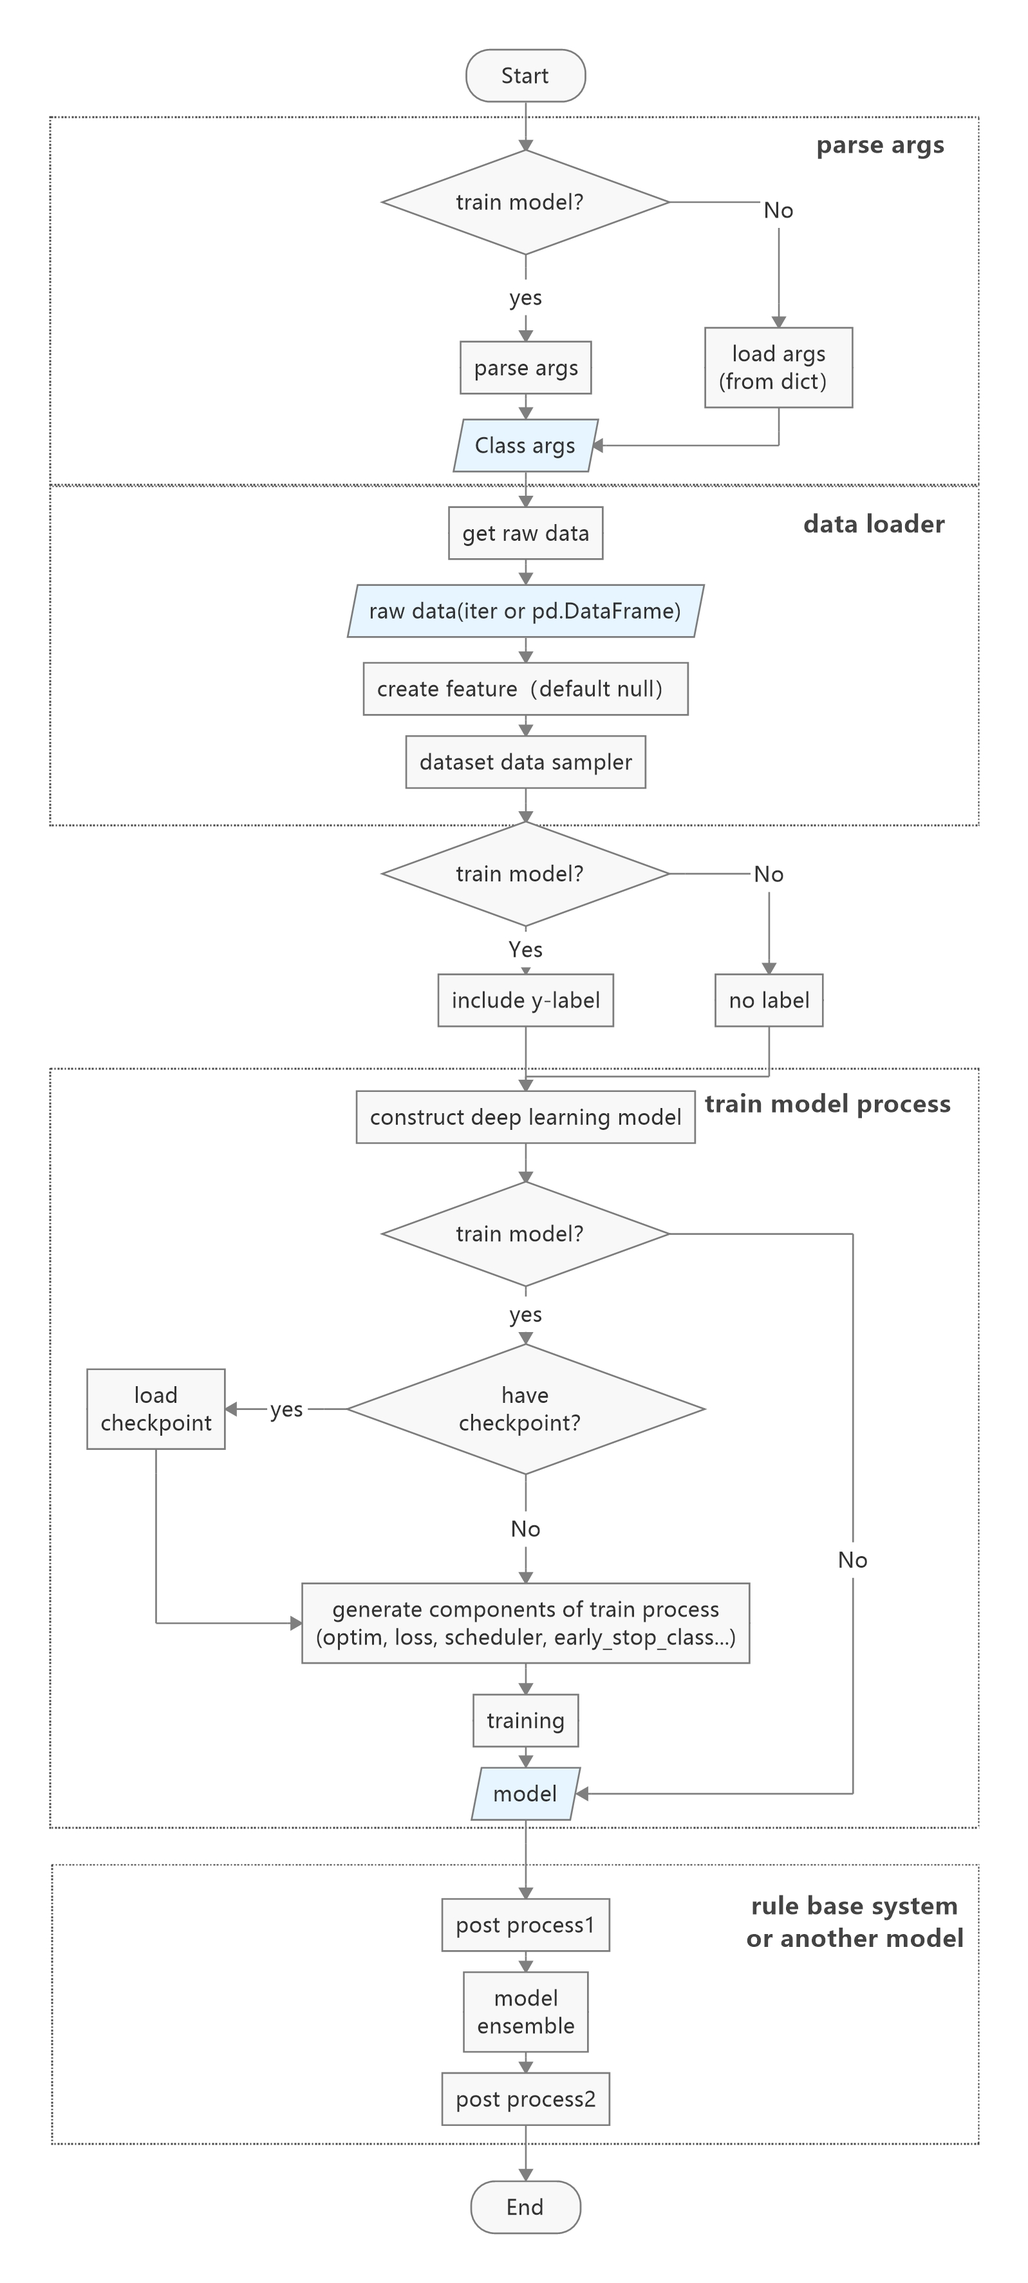
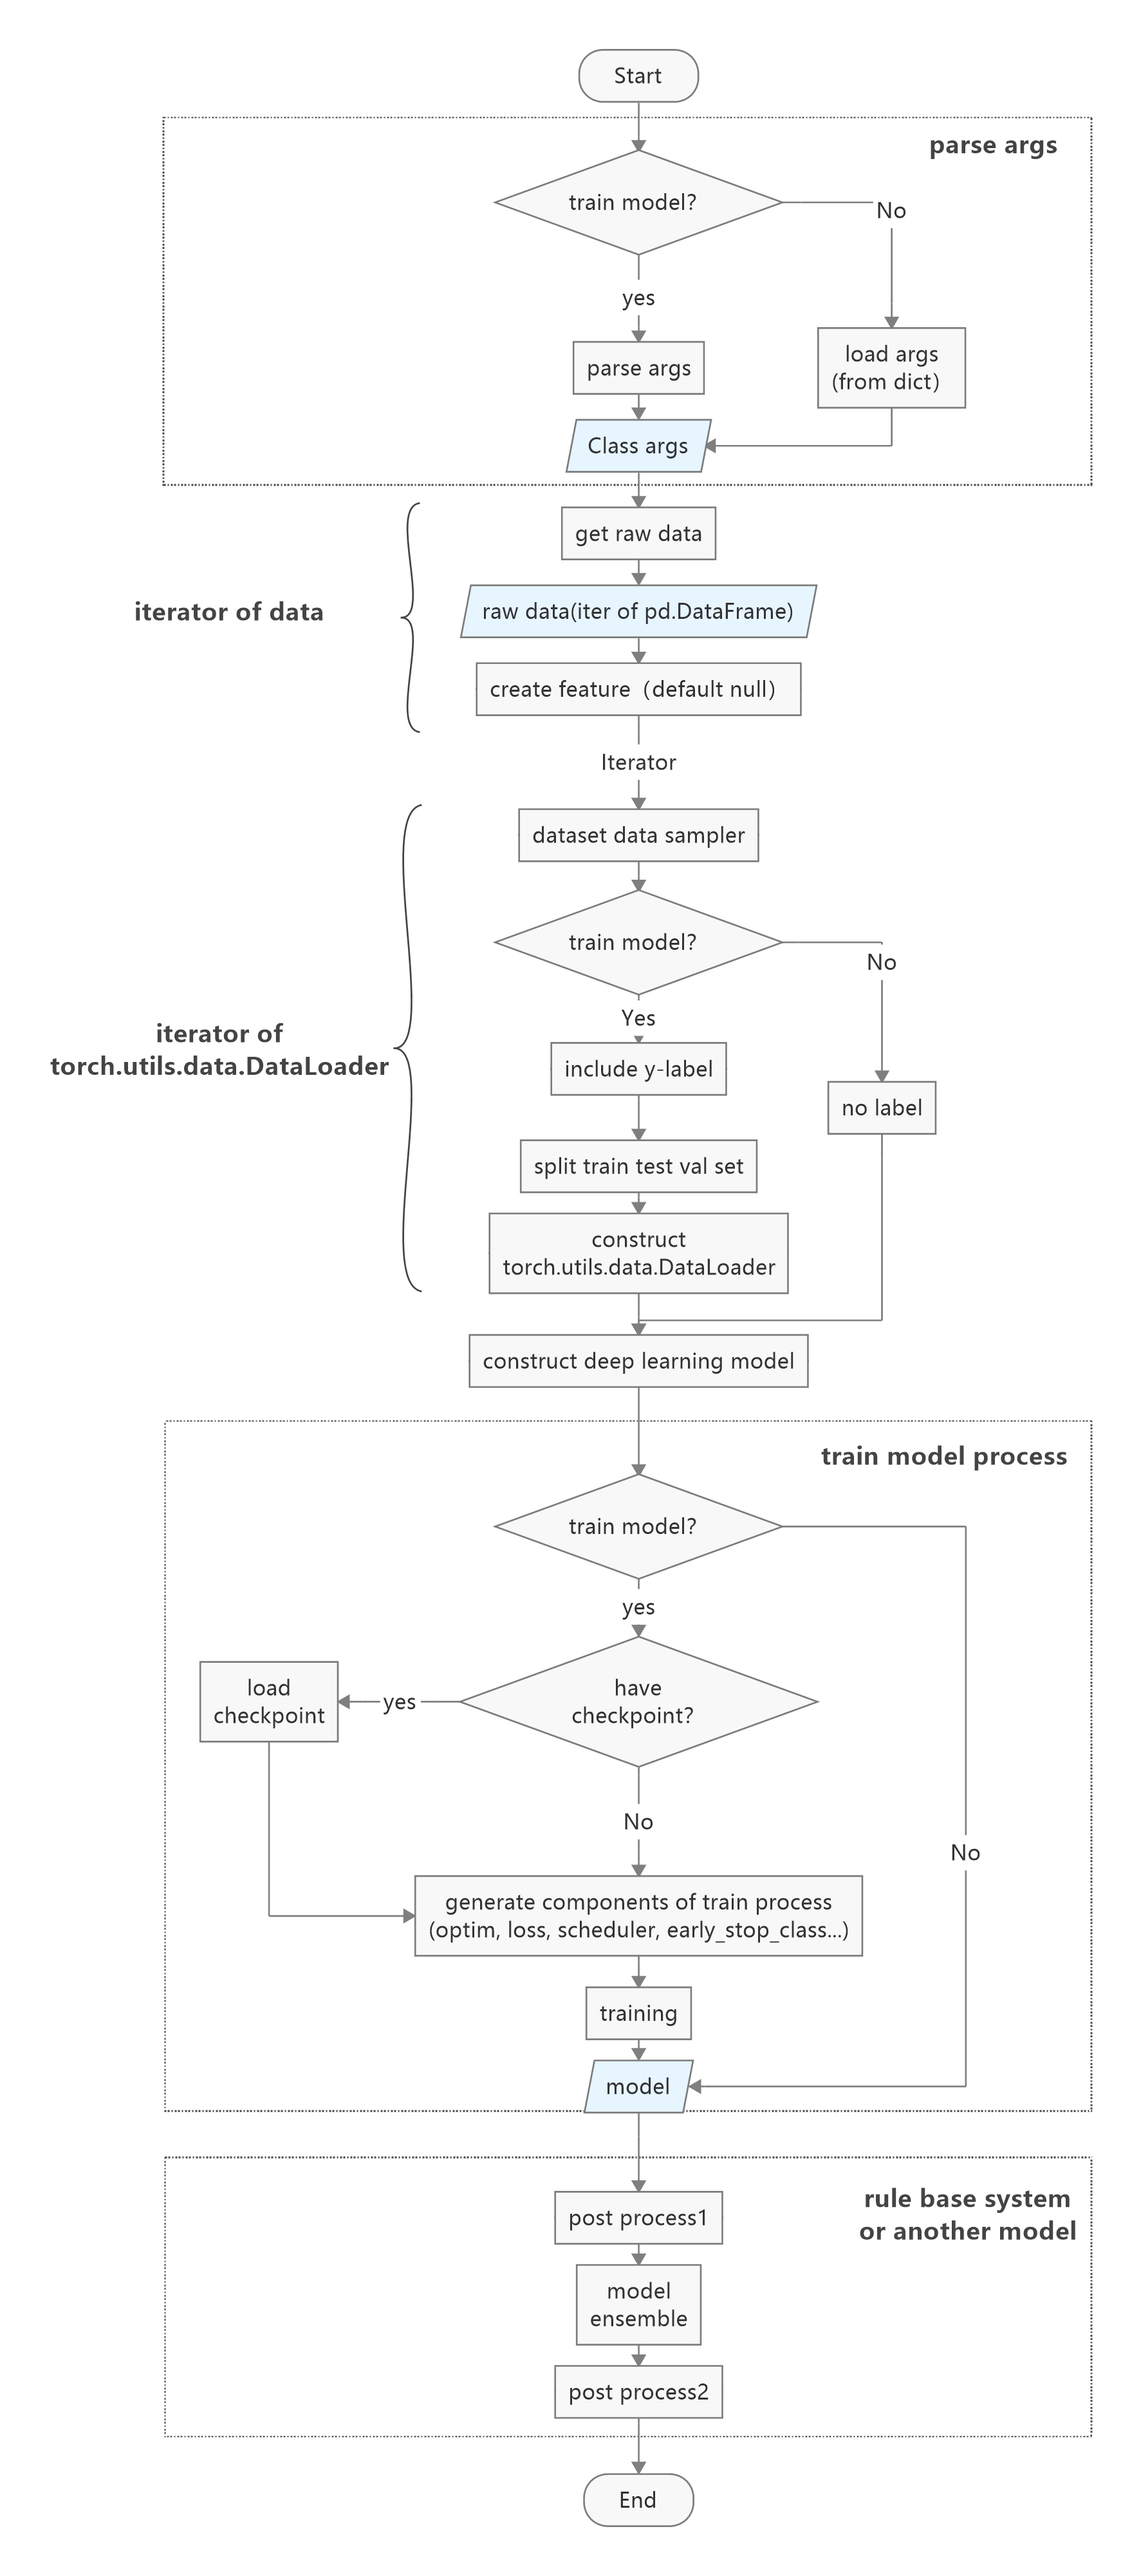
update template

diff --git a/pytorch_template/optim/lr_scheduler.py b/pytorch_template/optim/lr_scheduler.py
@@ -10,7 +10,6 @@ from torch.optim import Optimizer
 
 
 class LrScheduler(metaclass=ABCMeta):
-    @abstractmethod
     def __init__(self, optimizer: Optimizer, *args, **kwargs) -> None:
         """接收优化器，用于控制其中的学习了参数
 
@@ -26,13 +25,13 @@ class LrScheduler(metaclass=ABCMeta):
         """
         self.epoch = self.epoch + 1  # 记录目前学习的epoch
 
-    def update_lr_in_optimizer(self, optimizer, new_lr: float):
+    def update_lr_in_optimizer(self, new_lr: float):
         """更新optim中的学习率
 
         Args:
             new_lr (float): 将optim中的学习率更新为new_lr
         """
-        for param_group in optimizer.param_groups:
+        for param_group in self.optimizer.param_groups:
             param_group['lr'] = new_lr
 
 
@@ -40,7 +39,6 @@ class AdjustLearningRate(LrScheduler):
     def __init__(self, optimizer: Optimizer, *args, **kwargs) -> None:
         super().__init__(optimizer, *args, **kwargs)
         self.kwargs = kwargs
-        self.optimizer = optimizer
 
     def step(self):
         super().step()
@@ -61,4 +59,4 @@ class AdjustLearningRate(LrScheduler):
             }
         if self.epoch in lr_adjust.keys():
             lr_new = lr_adjust[self.epoch]
-            self.update_lr_in_optimizer(self.optimizer, lr_new)
+            self.update_lr_in_optimizer(lr_new)

diff --git a/pytorch_template/data/data_loader.py b/pytorch_template/data/data_loader.py
@@ -3,5 +3,26 @@
 '''
 @Author  :   chenjiannan
 @File    :   data_loader.py
-@Description    :   
+@Description    :   用于加载数据
 '''
+from abc import ABCMeta, abstractmethod
+from .get_raw_data import GetRawData
+from .create_feature import CreateFeature
+
+class ItertorData(metaclass=ABCMeta):
+    """用于加载数据，计算特征，构造迭代对象
+    """
+    def __init__(self, raw_data_loader: GetRawData,
+                 feature_builder: CreateFeature, *args, **kwargs) -> None:
+        self.raw_data_loader = raw_data_loader
+        self.feature_builder = feature_builder
+
+    # 共用的流程
+    def __call__(self):
+        ####################################
+        # 加载原始数据
+        ####################################
+        self.raw_data_loader()  # 读取数据
+        self.raw_data = self.raw_data_loader.get_data()
+
+    def __get_

diff --git a/pytorch_template/trainer/trainer.py b/pytorch_template/trainer/trainer.py
@@ -6,6 +6,7 @@
 @Description    :   待文件用于控制程序的主要训练过程
 '''
 from argparse import ArgumentParser
+import argparse
 from ..util.construct_args import Arguments
 
 
@@ -13,9 +14,17 @@ class Trainer(object):
     """用于控制训练的主流程
     """
     def __init__(self, arguments: ArgumentParser) -> None:
-        super().__init__()
+        self._check_args(arguments)
 
-    def set_arguments(self, arguments: ArgumentParser):
+    def _check_args(self, arguments: ArgumentParser) -> None:
+        """检查是否具备了所有必备的属性
+
+        Args:
+            arguments (ArgumentParser): 需要检查必要属性的类
+        """
+        pass
+
+    def _set_arguments(self, arguments: ArgumentParser):
         if isinstance(arguments, dict):
             return Arguments(arguments)
         else:

diff --git a/pytorch_template/data/create_feature.py b/pytorch_template/data/create_feature.py
@@ -1,0 +1,28 @@
+#!/usr/bin/env python
+# -*- encoding: utf-8 -*-
+'''
+@Author  :   chenjiannan
+@File    :   create_feature.py
+@Description    :   用于依据原始数据增加特征
+'''
+from abc import ABCMeta, abstractmethod
+import pandas as pd
+
+
+class CreateFeature(metaclass=ABCMeta):
+    """用于构造特征
+    """
+    def __init__(self, *args, **kwargs) -> None:
+        pass
+
+    @abstractmethod
+    def __call__(self, raw_data_i: pd.DataFrame) -> pd.DataFrame:
+        """用于构造特征数据
+
+        Args:
+            raw_data_i (pd.DataFrame): 需要构造特征的df
+
+        Returns:
+            pd.DataFrame: 返回增加了特征列的df
+        """
+        pass

diff --git a/pytorch_template/data/dataset_general.py b/pytorch_template/data/dataset_general.py
@@ -1,0 +1,23 @@
+#!/usr/bin/env python
+# -*- encoding: utf-8 -*-
+'''
+@Author  :   chenjiannan
+@File    :   dataset_general.py
+@Description    :   用于构造dataset（未经过数据集划分）
+'''
+from abc import ABCMeta, abstractmethod
+from typing import Iterator
+from torch.utils.data import Dataset
+
+
+class Dataset_General(Dataset):
+    def __init__(self, *args, **kwargs):
+        """用于构造dataset方法（未经过数据集划分）
+        """
+        pass
+
+    def __getitem__(self, index):
+        return tuple_results
+
+    def __len__(self):
+        return len(self.new_current_index)

diff --git a/pytorch_template/data/get_raw_data.py b/pytorch_template/data/get_raw_data.py
@@ -7,7 +7,6 @@
 '''
 from abc import ABCMeta, abstractmethod
 from typing import Iterator
-import pandas as pd
 
 
 class GetRawData(metaclass=ABCMeta):
@@ -23,10 +22,10 @@ class GetRawData(metaclass=ABCMeta):
         pass
 
     @abstractmethod
-    def get_data() -> pd.DataFrame or Iterator:
+    def get_data() -> Iterator:
         """获取读取的原始数据的结果
 
         Returns:
-            pd.DataFrame or Iterator: 
+            pd.DataFrame or Iterator: 返回可以迭代的对象，每个元素为pd.DataFrame（用于节约内存）
         """
         pass
